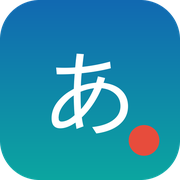
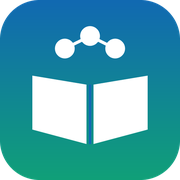
Revise branding to community e-learning identity

diff --git a/scripts/make_moodle_logo.py b/scripts/make_moodle_logo.py
@@ -4,7 +4,6 @@ from PIL import Image, ImageDraw, ImageFont
 OUT = Path('/home/iful/.hermes/cache/scratch/moodle-logo')
 OUT.mkdir(parents=True, exist_ok=True)
 S = 4
-IPA = '/usr/share/fonts/opentype/ipafont-gothic/ipag.ttf'
 DEJA = '/usr/share/fonts/truetype/dejavu/DejaVuSans-Bold.ttf'
 
 
@@ -21,7 +20,7 @@ def gradient(size, c1, c2):
 
 def make_icon(px):
     p = px * S
-    grad = gradient((p, p), (18, 105, 178), (12, 166, 160))
+    grad = gradient((p, p), (18, 105, 178), (16, 160, 120))
     mask = Image.new('L', (p, p), 0)
     md = ImageDraw.Draw(mask)
     md.rounded_rectangle([0, 0, p - 1, p - 1], radius=int(p * 0.22), fill=255)
@@ -29,15 +28,23 @@ def make_icon(px):
     icon.paste(grad, (0, 0), mask)
     d = ImageDraw.Draw(icon)
 
-    font = ImageFont.truetype(IPA, int(p * 0.54))
-    bbox = d.textbbox((0, 0), 'あ', font=font)
-    x = (p - (bbox[2] - bbox[0])) / 2 - bbox[0]
-    y = (p - (bbox[3] - bbox[1])) / 2 - bbox[1] + p * 0.02
-    d.text((x, y), 'あ', font=font, fill=(255, 255, 255, 255))
+    # Komunitas: tiga titik manusia yang terhubung
+    nodes = [(0.36, 0.27), (0.50, 0.20), (0.64, 0.27)]
+    r = int(p * 0.055)
+    pts = [(int(x * p), int(y * p)) for x, y in nodes]
+    d.line([pts[0], pts[1], pts[2]], fill=(255, 255, 255, 210), width=max(2, int(p * 0.018)))
+    for x, y in pts:
+        d.ellipse([x - r, y - r, x + r, y + r], fill=(255, 255, 255, 255))
 
-    r = int(p * 0.085)
-    cx, cy = int(p * 0.80), int(p * 0.78)
-    d.ellipse([cx - r, cy - r, cx + r, cy + r], fill=(231, 76, 60, 255))
+    # Buku terbuka = pembelajaran umum
+    left = [(int(p * 0.18), int(p * 0.42)), (int(p * 0.48), int(p * 0.47)),
+            (int(p * 0.48), int(p * 0.80)), (int(p * 0.18), int(p * 0.72))]
+    right = [(int(p * 0.52), int(p * 0.47)), (int(p * 0.82), int(p * 0.42)),
+             (int(p * 0.82), int(p * 0.72)), (int(p * 0.52), int(p * 0.80))]
+    d.polygon(left, fill=(255, 255, 255, 255))
+    d.polygon(right, fill=(255, 255, 255, 255))
+    d.line([(int(p * 0.50), int(p * 0.47)), (int(p * 0.50), int(p * 0.80))],
+           fill=(18, 105, 178, 255), width=max(2, int(p * 0.014)))
     return icon.resize((px, px), Image.LANCZOS)
 
 
@@ -46,8 +53,8 @@ icon512.save(OUT / 'moodle-logo-compact.png')
 icon512.resize((64, 64), Image.LANCZOS).save(OUT / 'favicon.png')
 icon512.resize((180, 180), Image.LANCZOS).save(OUT / 'icon-180.png')
 
-# Full header logo — 3 baris, lebih ramah navbar
-W, H = 900, 180
+# Full header logo
+W, H = 1000, 180
 pW, pH = W * S, H * S
 full = Image.new('RGBA', (pW, pH), (0, 0, 0, 0))
 icon = make_icon(150)
@@ -56,32 +63,36 @@ full.paste(icon, (15 * S, 15 * S), icon)
 d = ImageDraw.Draw(full)
 x = 190 * S
 f_small = ImageFont.truetype(DEJA, 28 * S)
-f_big = ImageFont.truetype(DEJA, 54 * S)
-f_tag = ImageFont.truetype(DEJA, 19 * S)
+f_big = ImageFont.truetype(DEJA, 46 * S)
+f_tag = ImageFont.truetype(DEJA, 18 * S)
 
-d.text((x, 34 * S), 'E-LEARNING', font=f_small, fill=(12, 166, 160, 255))
-d.text((x, 68 * S), 'Anaksepaku', font=f_big, fill=(23, 42, 69, 255))
-d.text((x, 132 * S), 'Bahasa Jepang · Bulan Pertama', font=f_tag, fill=(92, 105, 120, 255))
+d.text((x, 30 * S), 'E-LEARNING', font=f_small, fill=(16, 160, 120, 255))
+d.text((x, 66 * S), 'Komunitas Anak Sepaku', font=f_big, fill=(23, 42, 69, 255))
+d.text((x, 130 * S), 'Belajar bareng · Materi swadaya komunitas', font=f_tag, fill=(92, 105, 120, 255))
 
 full.resize((W, H), Image.LANCZOS).save(OUT / 'moodle-logo.png')
 print('written:', ', '.join(p.name for p in sorted(OUT.glob('*.png'))))
 
-# SVG source for future edits
-svg = '''<svg xmlns="http://www.w3.org/2000/svg" width="900" height="180" viewBox="0 0 900 180">
+svg = '''<svg xmlns="http://www.w3.org/2000/svg" width="1000" height="180" viewBox="0 0 1000 180">
   <defs>
     <linearGradient id="g" x1="0" y1="0" x2="0" y2="1">
       <stop offset="0" stop-color="#1269b2"/>
-      <stop offset="1" stop-color="#0ca6a0"/>
+      <stop offset="1" stop-color="#10a078"/>
     </linearGradient>
   </defs>
   <g transform="translate(15,15)">
     <rect width="150" height="150" rx="33" fill="url(#g)"/>
-    <text x="75" y="99" text-anchor="middle" font-family="'Noto Sans JP','IPA Gothic',sans-serif" font-size="81" fill="#fff">あ</text>
-    <circle cx="120" cy="117" r="13" fill="#e74c3c"/>
+    <path d="M27 63 L72 70 L72 120 L27 108 Z" fill="#fff"/>
+    <path d="M78 70 L123 63 L123 108 L78 120 Z" fill="#fff"/>
+    <line x1="75" y1="70" x2="75" y2="120" stroke="#1269b2" stroke-width="3"/>
+    <g fill="#fff">
+      <circle cx="54" cy="41" r="8"/><circle cx="75" cy="30" r="8"/><circle cx="96" cy="41" r="8"/>
+    </g>
+    <path d="M54 41 L75 30 L96 41" stroke="#fff" stroke-width="3" fill="none" opacity="0.85"/>
   </g>
-  <text x="190" y="60" font-family="DejaVu Sans,Arial,sans-serif" font-size="28" font-weight="bold" fill="#0ca6a0">E-LEARNING</text>
-  <text x="190" y="115" font-family="DejaVu Sans,Arial,sans-serif" font-size="54" font-weight="bold" fill="#172a45">Anaksepaku</text>
-  <text x="190" y="151" font-family="DejaVu Sans,Arial,sans-serif" font-size="19" fill="#5c6978">Bahasa Jepang · Bulan Pertama</text>
+  <text x="190" y="58" font-family="DejaVu Sans,Arial,sans-serif" font-size="28" font-weight="bold" fill="#10a078">E-LEARNING</text>
+  <text x="190" y="112" font-family="DejaVu Sans,Arial,sans-serif" font-size="46" font-weight="bold" fill="#172a45">Komunitas Anak Sepaku</text>
+  <text x="190" y="151" font-family="DejaVu Sans,Arial,sans-serif" font-size="18" fill="#5c6978">Belajar bareng · Materi swadaya komunitas</text>
 </svg>
 '''
 (OUT / 'moodle-logo.svg').write_text(svg, encoding='utf-8')

diff --git a/README.md b/README.md
@@ -190,4 +190,4 @@ Error `not enough random questions` terjadi bila jumlah slot acak melebihi jumla
 
 ## Branding
 
-`brand/` berisi logo Moodle: `moodle-logo.png` (Logo), `moodle-logo-compact.png` (Compact logo), `favicon.png`, dan sumber SVG. Generate ulang dengan `scripts/make_moodle_logo.py`; pasang ke Moodle dengan `scripts/apply_moodle_logo.php` (file disimpan di `core_admin` area `logo`, `logocompact`, `favicon` dengan `itemid=0`).
+`brand/` berisi logo Moodle: `moodle-logo.png` (Logo), `moodle-logo-compact.png` (Compact logo), `favicon.png`, dan sumber SVG. Identitas: e-learning komunitas Anak Sepaku (bukan khusus bahasa Jepang). Generate ulang dengan `scripts/make_moodle_logo.py`; pasang ke Moodle dengan `scripts/apply_moodle_logo.php` (file disimpan di `core_admin` area `logo`, `logocompact`, `favicon` dengan `itemid=0`).

diff --git a/CHANGELOG.md b/CHANGELOG.md
@@ -18,7 +18,7 @@
 - Skrip `scripts/create_ws_token.sh` untuk otomasi REST (token tidak di-commit).
 
 ### Branding
-- Logo, compact logo, dan favicon dibuat dan dipasang via core_admin settings.
+- Logo, compact logo, dan favicon dibuat dan dipasang via core_admin settings. Revisi identitas: komunitas Anak Sepaku, materi umum/swadaya komunitas.
 
 ### Quiz
 - Random question filter diset ke kategori 9 + 14 (33 soal) agar 33 slot tidak kehabisan soal.
